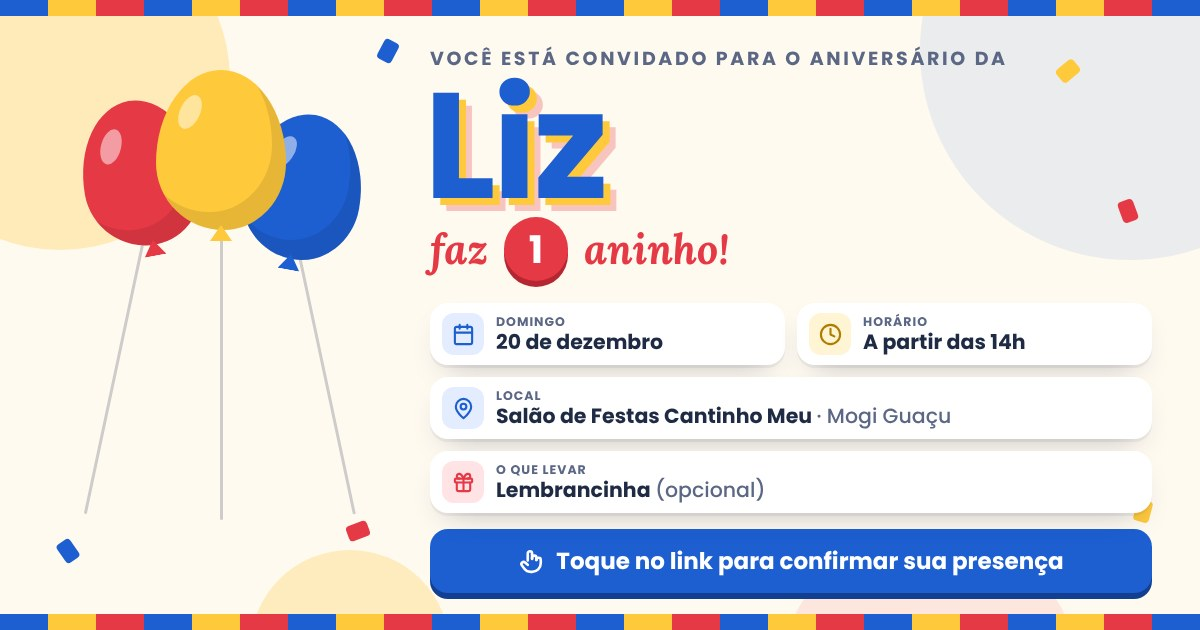
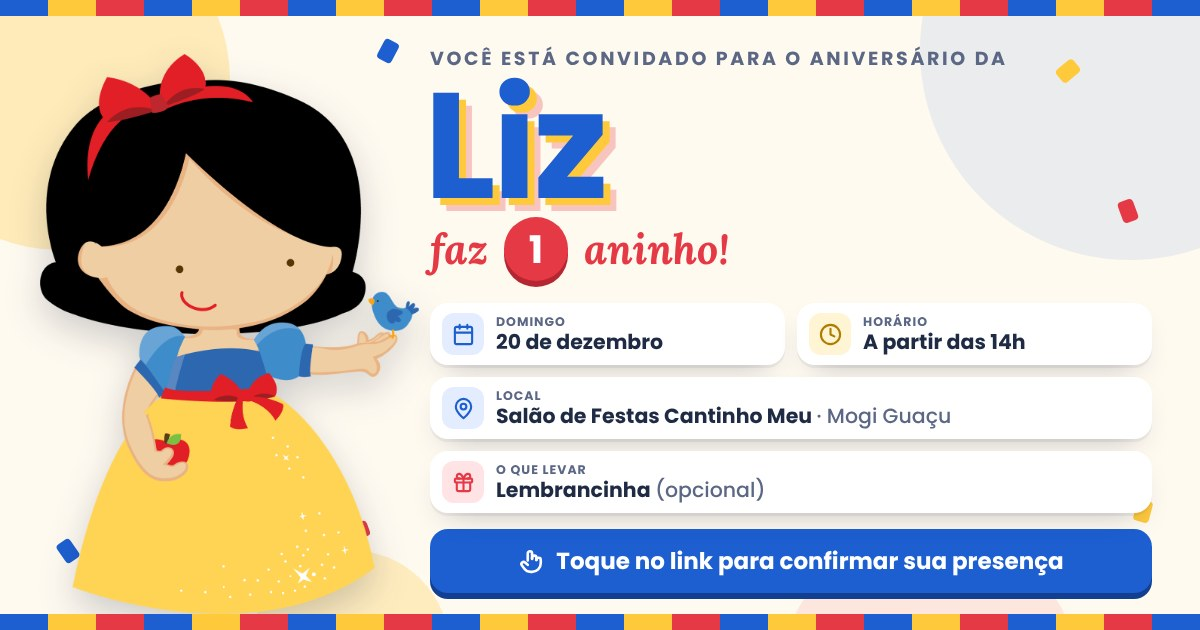
Convite da Liz: personagem na prévia do WhatsApp e imagem hospedada no próprio site
Claude-Session: https://claude.ai/code/session_01FenwP4vyBU8aMvLPYfTZzm

Changed region(s): [[0.0308, 0.0905, 0.37, 0.9952]]

diff --git a/liz/index.html b/liz/index.html
@@ -137,7 +137,7 @@
       <div class="balao b3"><span></span></div>
     </div>
     <div class="personagem" id="personagem">
-      <img src="https://blogger.googleusercontent.com/img/b/R29vZ2xl/AVvXsEgFvMYNn-IUm1A1sSnn-TJ2nkhi_g5Qr409lj5aIpg84X_0o_PMKIbm-A6_FV1wRv7-PS2qagP032ZTonNzAw1kltKecVyKUNd055kcehjFZVW7DSfZeIzuxMJ0_EpzL6OSiVHmrgmfdQx5/s1600/Branca-de-Neve-Cute-03.png" alt="Ilustração do tema da festa da Liz" loading="eager"
+      <img src="personagem.png" alt="Ilustração do tema da festa da Liz" loading="eager"
            onload="document.getElementById('baloes').classList.add('oculto')"
            onerror="document.getElementById('personagem').classList.add('oculto')">
     </div>
